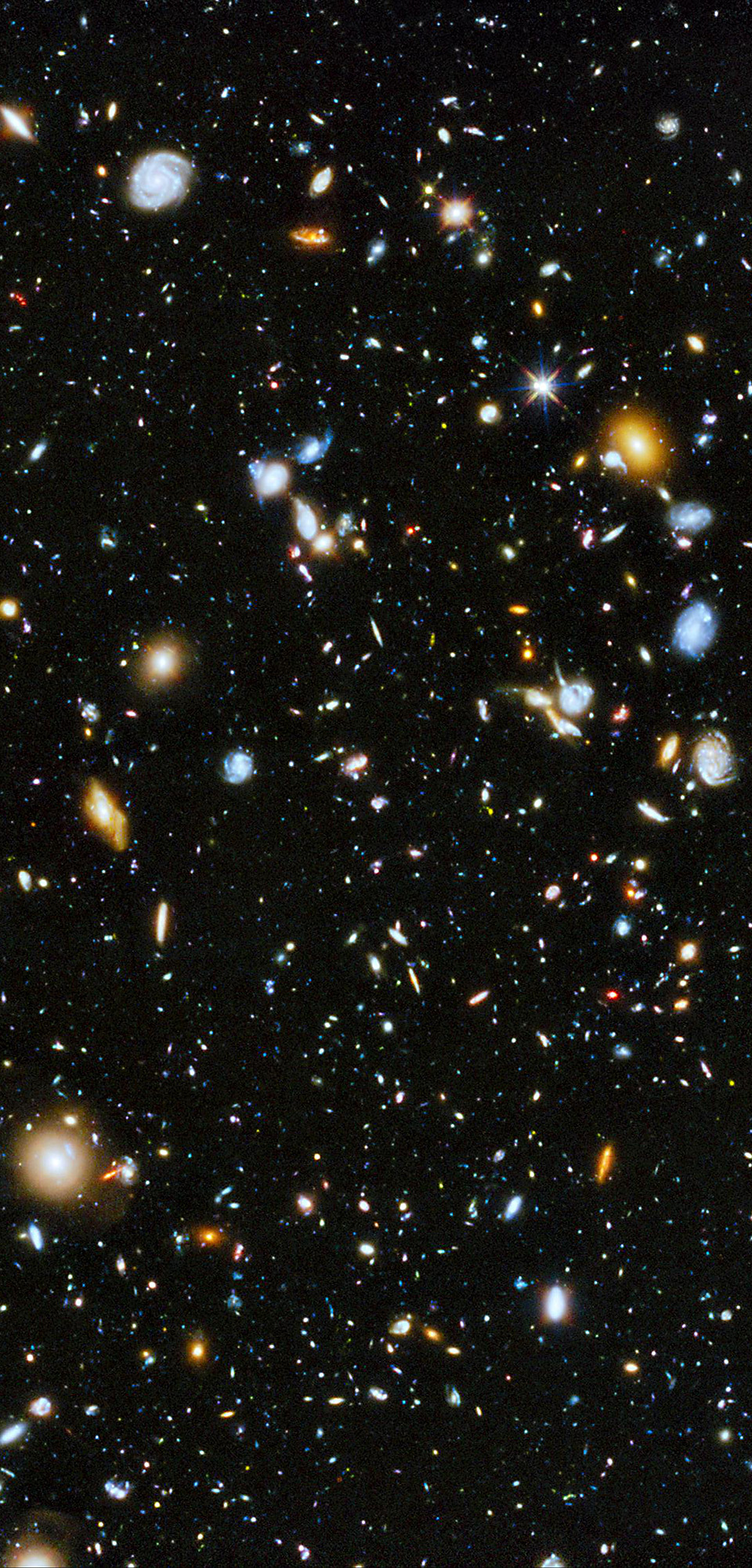
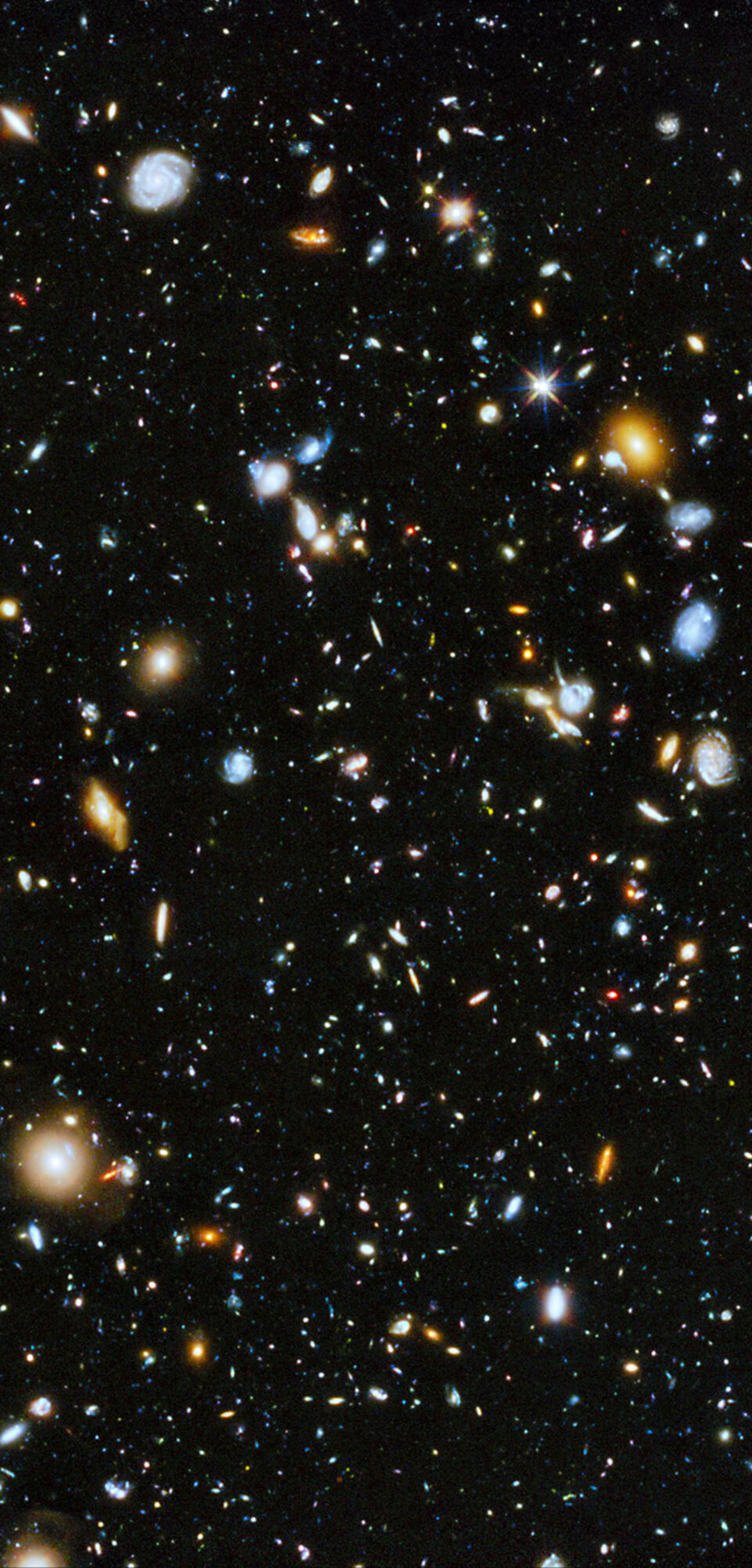
compressed images

Changed region(s): [[0.7188, 0.992, 0.75, 1.0], [0.0312, 0.992, 0.0625, 1.0]]

diff --git a/index.html b/index.html
@@ -69,7 +69,7 @@
                             <h1>Contact:  &nbsp;iroberts@strw.leidenuniv.nl</h1>
                           </div>
                           <div class="image">
-                            <img src="images/IMG_0541_cropped.JPG">
+                            <img src="images/IMG_0541_cropped_compressed.jpg">
                           </div>
                         </div>
 					</section>
